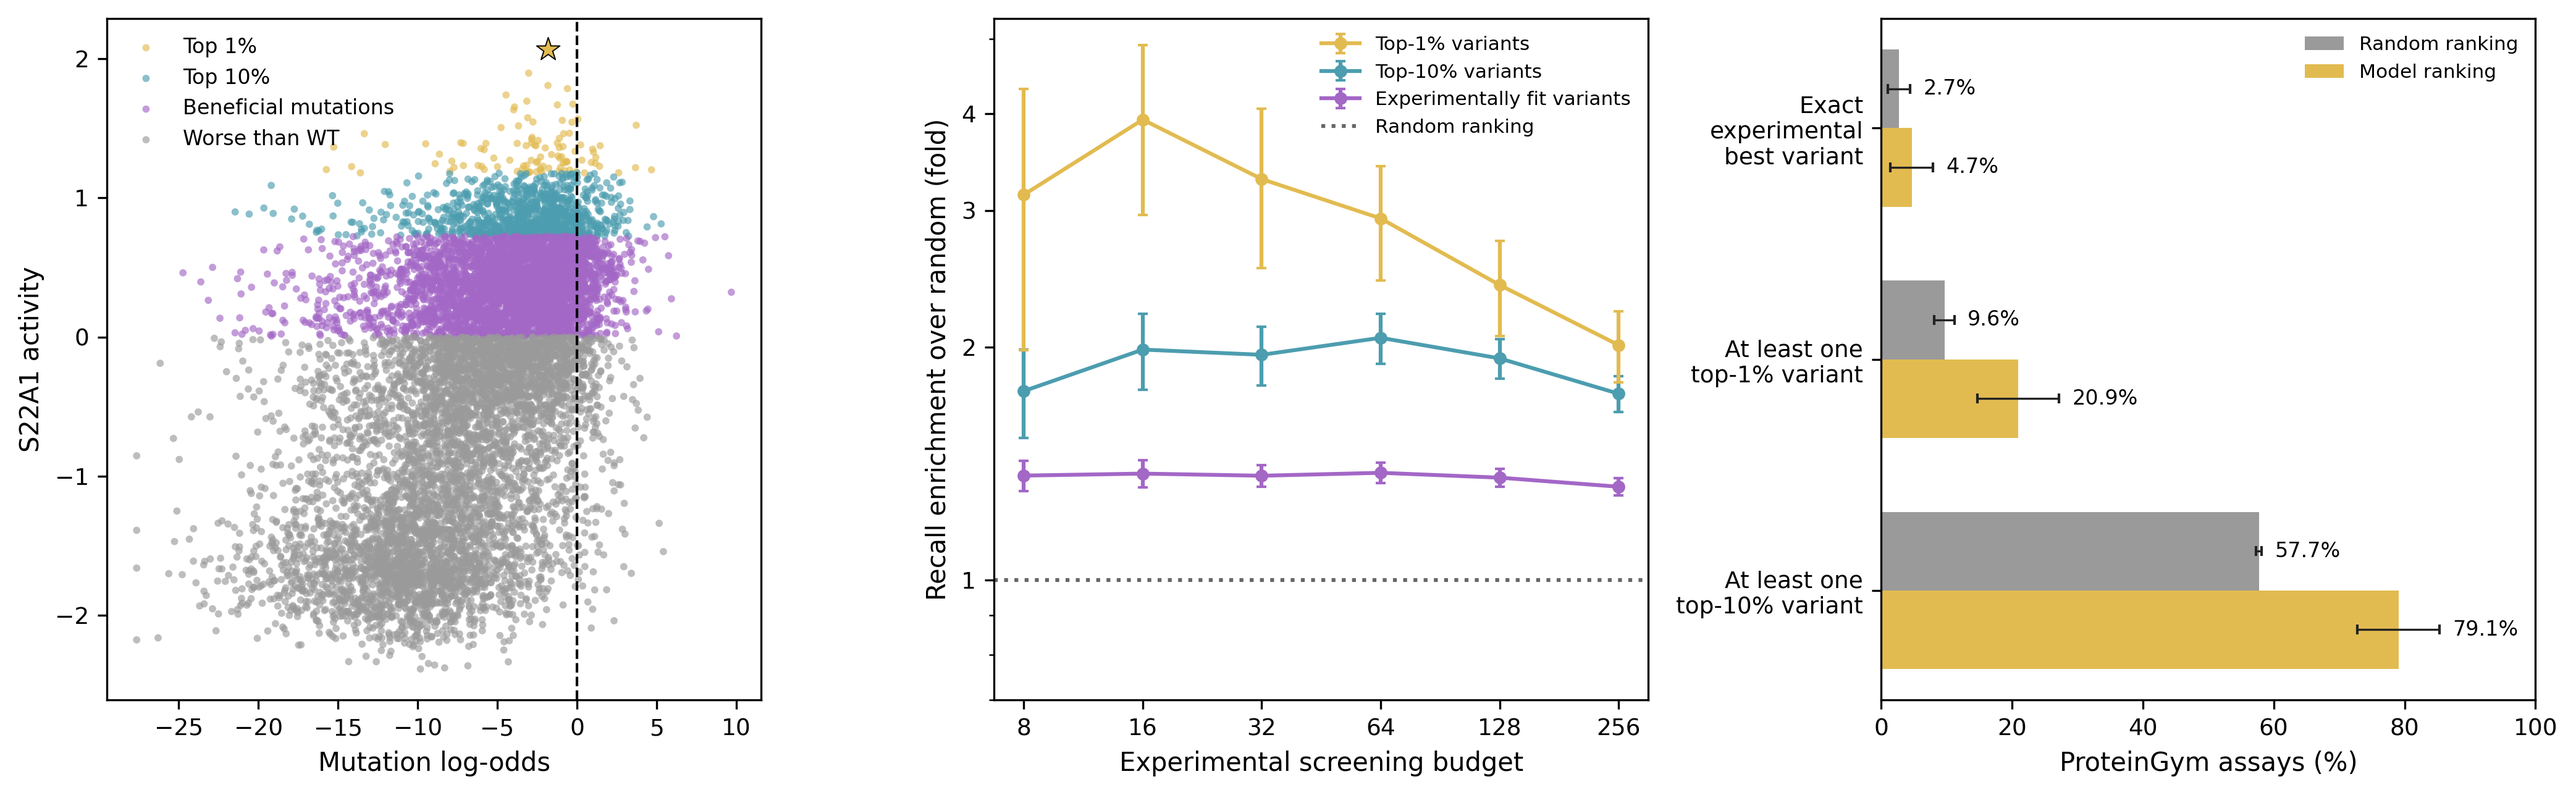
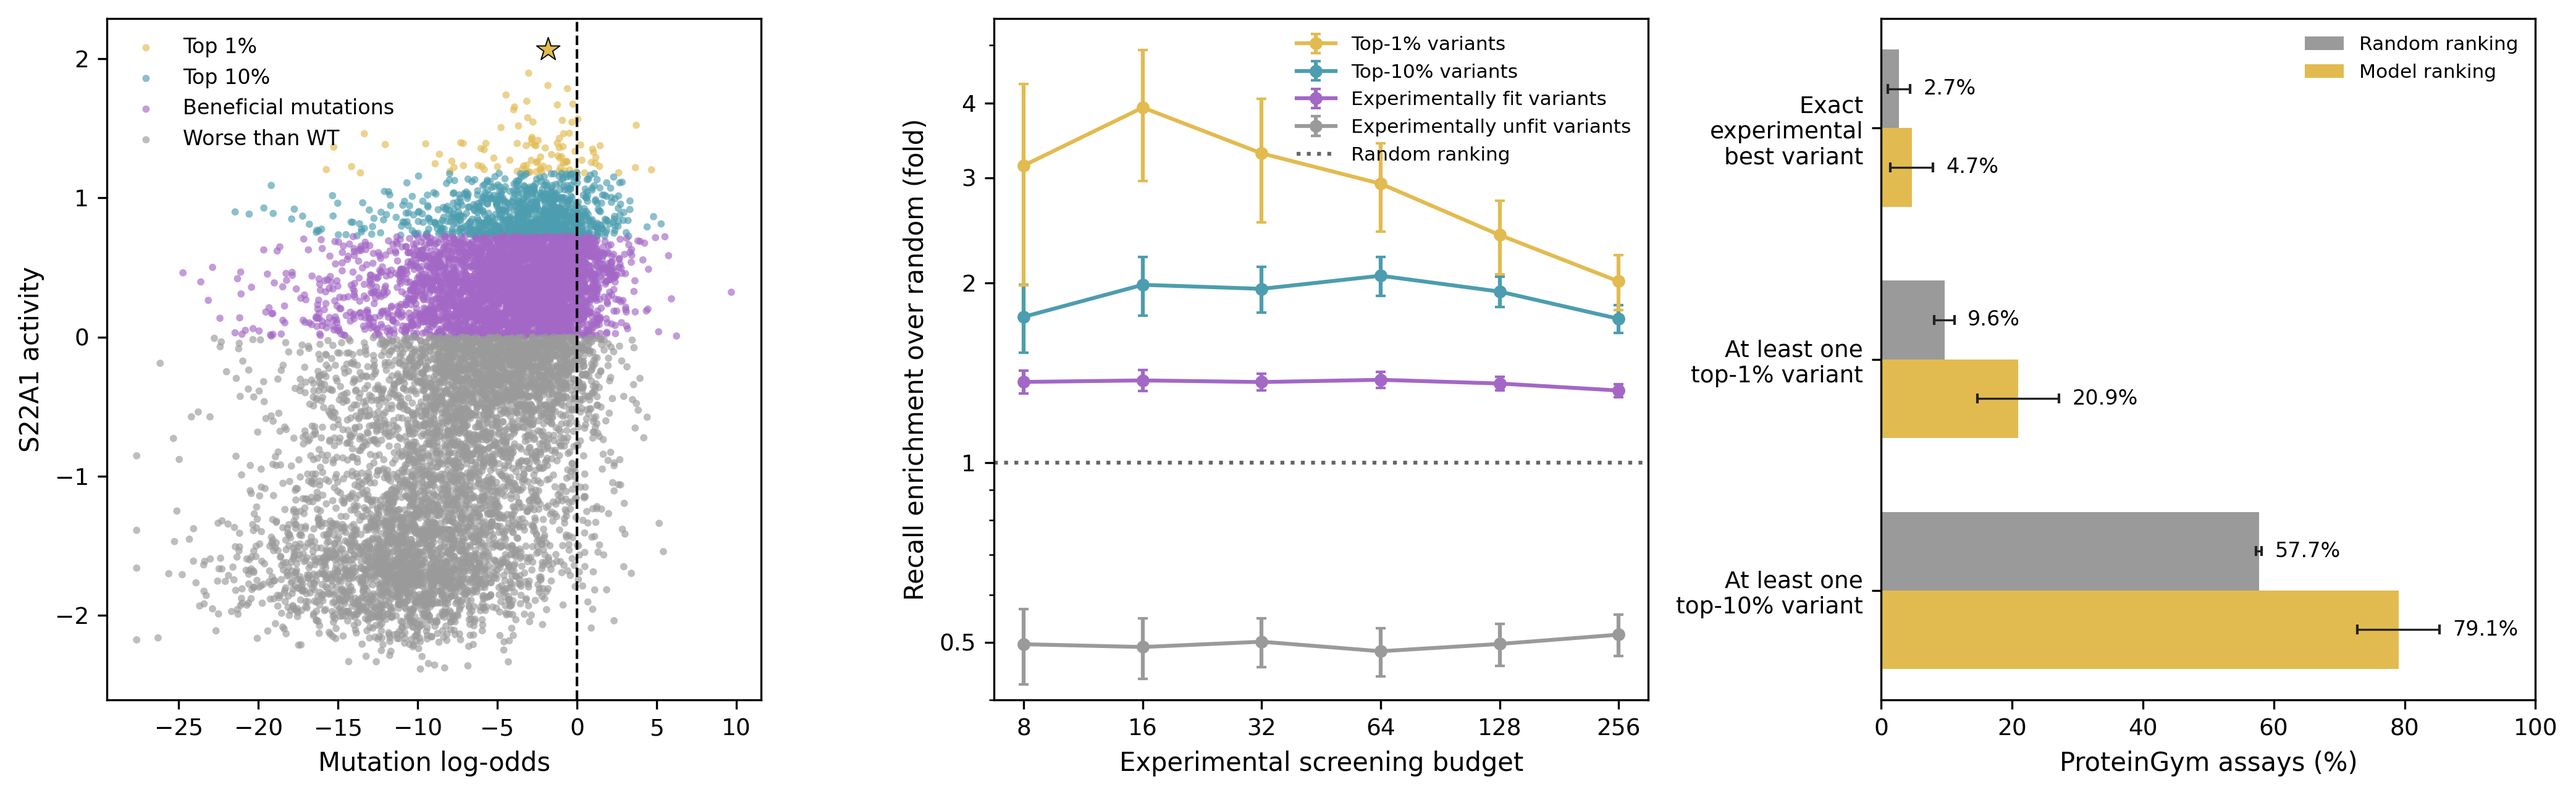
update_fig4

diff --git a/figures_scripts_notebooks/figure4_scripts/make_figure4_selection_plots.py b/figures_scripts_notebooks/figure4_scripts/make_figure4_selection_plots.py
@@ -63,6 +63,7 @@ def load_assay(logits, path):
     data["top_one_percent"] = data["DMS_score"].ge(data["DMS_score"].quantile(0.99))
     data["top_ten_percent"] = data["DMS_score"].ge(data["DMS_score"].quantile(0.90))
     data["experimentally_fit"] = data["DMS_score_bin"].eq(1)
+    data["experimentally_unfit"] = data["DMS_score_bin"].eq(0)
     data["fitness_class"] = "beneficial"
     data.loc[data["DMS_score"].lt(0), "fitness_class"] = "worse_than_wt"
     data.loc[data["top_ten_percent"], "fitness_class"] = "top_ten_percent"
@@ -87,6 +88,7 @@ def measure(data, assay):
     for budget in BUDGETS:
         screened = ranked.head(min(budget, len(ranked)))
         metrics[f"fit_recall_at_{budget}"] = screened["experimentally_fit"].sum() / data["experimentally_fit"].sum()
+        metrics[f"unfit_recall_at_{budget}"] = screened["experimentally_unfit"].sum() / data["experimentally_unfit"].sum()
         metrics[f"top_one_percent_recall_at_{budget}"] = screened["top_one_percent"].sum() / data["top_one_percent"].sum()
         metrics[f"top_ten_percent_recall_at_{budget}"] = screened["top_ten_percent"].sum() / data["top_ten_percent"].sum()
         metrics[f"best_recall_at_{budget}"] = screened["DMS_score"].eq(best_score).sum() / data["DMS_score"].eq(best_score).sum()
@@ -127,20 +129,24 @@ def example_panel(axis, data, model):
 
 
 def enrichment_panel(axis, metrics, model):
-    experimentally_fit, top_one_percent, top_ten_percent = [], [], []
-    experimentally_fit_se, top_one_percent_se, top_ten_percent_se = [], [], []
+    experimentally_unfit, experimentally_fit, top_one_percent, top_ten_percent = [], [], [], []
+    experimentally_unfit_se, experimentally_fit_se, top_one_percent_se, top_ten_percent_se = [], [], [], []
     for budget in LOG_PLOT_BUDGETS:
         random_recall = np.minimum(budget / metrics["n_assayed"], 1)
+        unfit_lift = metrics[f"unfit_recall_at_{budget}"] / random_recall
         fit_lift = metrics[f"fit_recall_at_{budget}"] / random_recall
         top_one_percent_lift = metrics[f"top_one_percent_recall_at_{budget}"] / random_recall
         top_ten_percent_lift = metrics[f"top_ten_percent_recall_at_{budget}"] / random_recall
+        experimentally_unfit.append(unfit_lift.mean())
         experimentally_fit.append(fit_lift.mean())
         top_one_percent.append(top_one_percent_lift.mean())
         top_ten_percent.append(top_ten_percent_lift.mean())
+        experimentally_unfit_se.append(standard_error(unfit_lift))
         experimentally_fit_se.append(standard_error(fit_lift))
         top_one_percent_se.append(standard_error(top_one_percent_lift))
         top_ten_percent_se.append(standard_error(top_ten_percent_lift))
     axis.axhline(1, color="#666666", linestyle=":", linewidth=1.5, label="Random ranking")
+    axis.errorbar(LOG_PLOT_BUDGETS, experimentally_unfit, yerr=experimentally_unfit_se, marker="o", markersize=4, capsize=2, color="#9A9A9A", label="Experimentally unfit variants")
     axis.errorbar(LOG_PLOT_BUDGETS, experimentally_fit, yerr=experimentally_fit_se, marker="o", markersize=4, capsize=2, color="#A367C6", label="Experimentally fit variants")
     axis.errorbar(LOG_PLOT_BUDGETS, top_ten_percent, yerr=top_ten_percent_se, marker="o", markersize=4, capsize=2, color="#4C9DAF", label="Top-10% variants")
     axis.errorbar(LOG_PLOT_BUDGETS, top_one_percent, yerr=top_one_percent_se, marker="o", markersize=4, capsize=2, color="#E2BB50", label="Top-1% variants")
@@ -152,7 +158,7 @@ def enrichment_panel(axis, metrics, model):
     axis.set_yticks([0.5, 1, 2, 3, 4])
     axis.set_yticklabels(["0.5", "1", "2", "3", "4"])
     axis.yaxis.set_minor_formatter(NullFormatter())
-    axis.set_ylim(bottom=0.7)
+    axis.set_ylim(bottom=0.4)
     axis.set(xlabel="Experimental screening budget", ylabel="Recall enrichment over random (fold)")
     axis.tick_params(labelsize=9)
     handles, labels = axis.get_legend_handles_labels()
